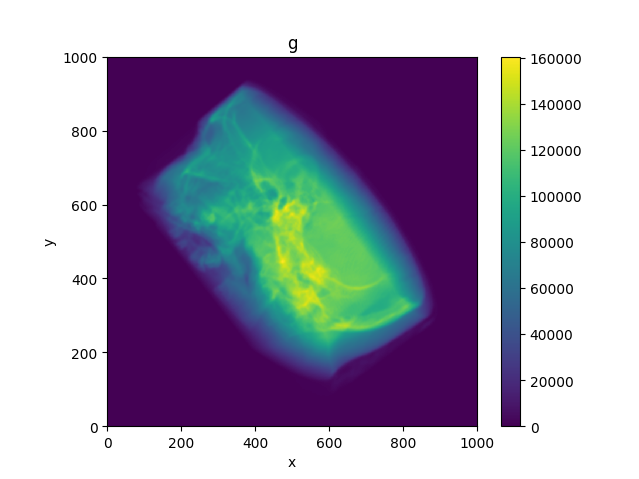
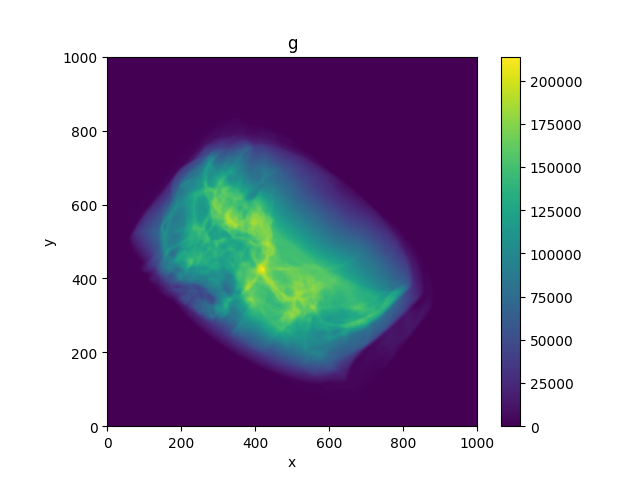
readme tweak

diff --git a/register.py b/register.py
@@ -135,10 +135,9 @@ def load_cached_drr(cache_directory: str, ct_volume_path: str):
 
 def generate_new_drr(cache_directory: str, ct_volume_path: str, volume_data: torch.Tensor, voxel_spacing: torch.Tensor,
                      *, device):
-    rotation = torch.rand(3)
-    translation = torch.rand(3)
-    print("Generating DRR at transformation:\n\tr = {}\n\tt = {}...".format(rotation, translation))
-    transformation = Transformation(rotation, translation)
+    transformation = Transformation.random()
+    print("Generating DRR at transformation:\n\tr = {}\n\tt = {}...".format(transformation.rotation,
+                                                                            transformation.translation))
 
     #
     # drr_image = drr_generator(rotations, translations, parameterization="euler_angles", convention="ZXY")
@@ -277,7 +276,7 @@ def register(path: str, *, cache_directory: str, load_cached: bool = True, regen
         axes.axis('square')
         plt.colorbar(mesh)
 
-    if False:
+    if True:
         def objective(params: torch.Tensor) -> torch.Tensor:
             return -evaluate(fixed_image, sinogram3d, transformation=Transformation(params[0:3], params[3:6]),
                              scene_geometry=scene_geometry, fixed_image_grid=sinogram2d_grid,

diff --git a/registration/common.py b/registration/common.py
@@ -2,6 +2,7 @@ from typing import NamedTuple, Tuple
 
 import torch
 
+
 class LinearMapping:
     def __init__(self, a: float | torch.Tensor, b: float | torch.Tensor):
         self.a = a
@@ -30,6 +31,10 @@ class Transformation(NamedTuple):
 
     def inverse(self) -> 'Transformation':
         return Transformation(-self.rotation, -self.translation)
+
+    @classmethod
+    def random(cls) -> 'Transformation':
+        return Transformation(torch.pi * (-1. + 2. * torch.rand(3)), 25. * (-1. + 2. * torch.rand(3)))
 
 
 class SceneGeometry(NamedTuple):

diff --git a/main.py b/main.py
@@ -14,4 +14,4 @@ if __name__ == "__main__":
     # test_radon2d.benchmark_dRadon2dDR("/home/eprager/Documents/Data/4th year project/First/x_ray/x_ray.dcm")
     # test_radon3d.benchmark_radon3d(sys.argv[1])
     # test_radon3d.benchmark_dRadon3dDR(sys.argv[1])
-    register(sys.argv[1], cache_directory="cache", load_cached=True, regenerate_drr=False)
+    register(sys.argv[1], cache_directory="cache", load_cached=True, regenerate_drr=True)

diff --git a/README.md b/README.md
@@ -47,7 +47,8 @@ The associated fixed image (= 1/cos^2 alpha * d/ds R2\[cos gamma * g\])
 
 ![dds_R2_gtilde_ground_truth.png](figures/dds_R2_gtilde_ground_truth.png)
 
-The 3D Radon transform of the volume data (= R3\[mu\]), resampled according to the ground truth transformation (this should roughly
+The 3D Radon transform of the volume data (= R3\[mu\]), resampled according to the ground truth transformation (this
+should roughly
 match the above image):
 
 ![ddr_R3_mu_resampled_ground_truth.png](figures/ddr_R3_mu_resampled_ground_truth.png)
@@ -57,7 +58,8 @@ the resampled Radon-transformed volume, with the ground truth transformation at 
 
 ![landscape.png](figures/landscape.png)
 
-Starting from a different random transformation, optimising over the ZNCC between these images using the Nelder-Mead
+Starting from a different random transformation, optimising the ZNCC between these images over the transformation using
+the Nelder-Mead
 algorithm:
 
 ![params_against_iteration.png](figures/params_against_iteration.png)
@@ -67,6 +69,8 @@ algorithm:
 DRR generated at the converged transformation:
 
 ![converged_drr.png](figures/converged_drr.png)
+
+Optimisation completed in 2.280 seconds, performing a total of 586 function evaluations.
 
 ## IDE integration
 
